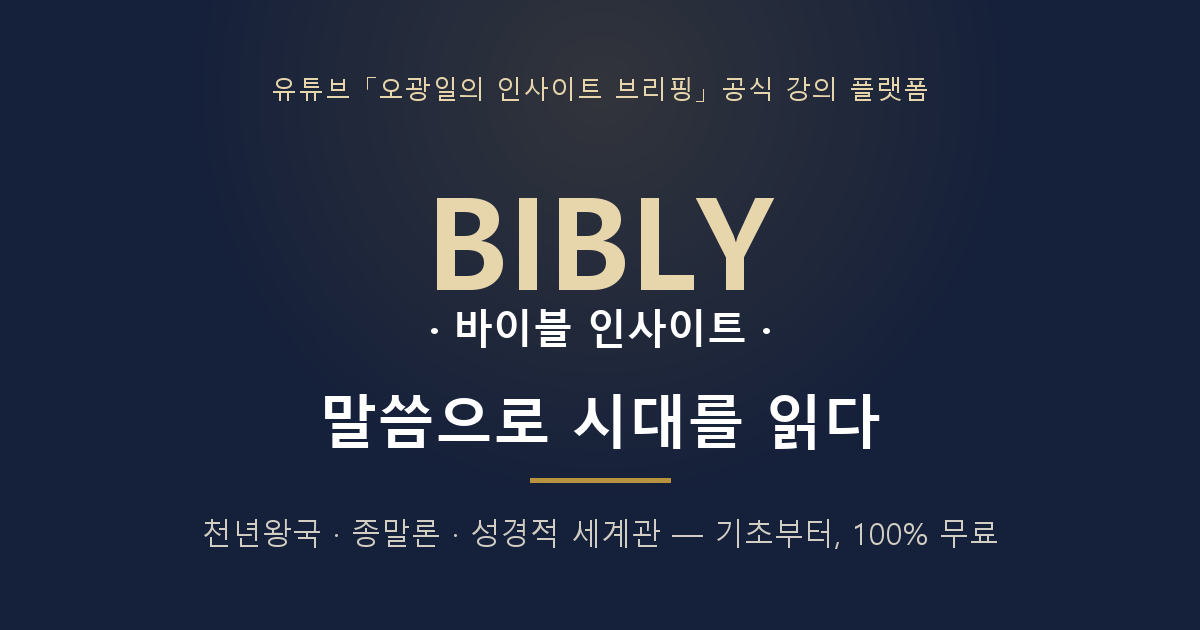
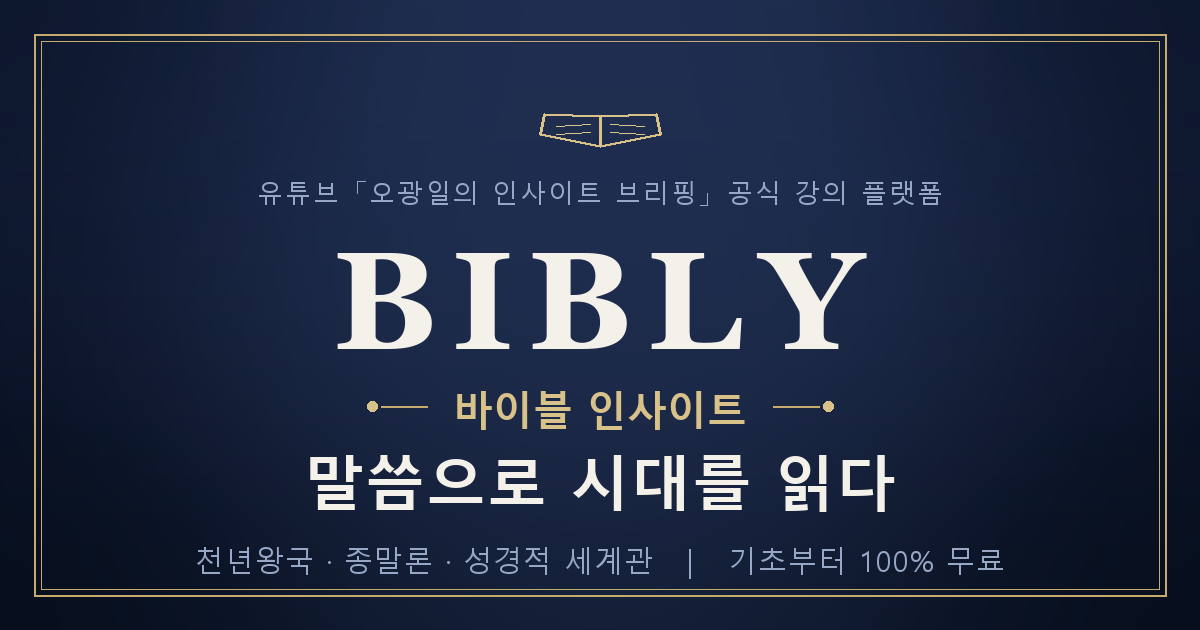
공유 카드(OG 이미지) 디자인 리뉴얼
- 세리프 워드마크·골드 프레임·펼친 성경 엠블럼·중앙 글로우로 고급화
- 상하 여백/타이포 균형 재조정
- og:image·twitter:image에 ?v=2 캐시버스터 추가(신규 이미지 즉시 반영)

diff --git a/index.html b/index.html
@@ -21,14 +21,14 @@
   <meta property="og:title" content="BIBLY 바이블 인사이트 — 말씀으로 시대를 읽다" />
   <meta property="og:description" content="유튜브 「오광일의 인사이트 브리핑」 공식 강의 플랫폼. 천년왕국·종말론·성경적 세계관을 기초부터 단계별로 — 100% 무료." />
   <meta property="og:url" content="https://biblynote.com/" />
-  <meta property="og:image" content="https://biblynote.com/images/og-cover.png" />
+  <meta property="og:image" content="https://biblynote.com/images/og-cover.png?v=2" />
   <meta property="og:image:width" content="1200" />
   <meta property="og:image:height" content="630" />
   <meta property="og:locale" content="ko_KR" />
   <meta name="twitter:card" content="summary_large_image" />
   <meta name="twitter:title" content="BIBLY 바이블 인사이트 — 말씀으로 시대를 읽다" />
   <meta name="twitter:description" content="유튜브 「오광일의 인사이트 브리핑」 공식 강의 플랫폼. 천년왕국·종말론·성경적 세계관을 기초부터 단계별로 — 100% 무료." />
-  <meta name="twitter:image" content="https://biblynote.com/images/og-cover.png" />
+  <meta name="twitter:image" content="https://biblynote.com/images/og-cover.png?v=2" />
 
   <!-- 검색 구조화 데이터 (JSON-LD) -->
   <script type="application/ld+json">

diff --git a/about.html b/about.html
@@ -13,10 +13,10 @@
   <meta property="og:title" content="소개 · 우리의 사명 — BIBLY 바이블 인사이트" />
   <meta property="og:description" content="평신도가 성경을 스스로 읽고 시대를 분별하도록 돕는 온라인 신학 운동. 사명·비전·핵심가치를 소개합니다." />
   <meta property="og:url" content="https://biblynote.com/about" />
-  <meta property="og:image" content="https://biblynote.com/images/og-cover.png" />
+  <meta property="og:image" content="https://biblynote.com/images/og-cover.png?v=2" />
   <meta property="og:locale" content="ko_KR" />
   <meta name="twitter:card" content="summary_large_image" />
-  <meta name="twitter:image" content="https://biblynote.com/images/og-cover.png" />
+  <meta name="twitter:image" content="https://biblynote.com/images/og-cover.png?v=2" />
   <link rel="manifest" href="/manifest.json" />
   <meta name="theme-color" content="#15203a" />
   <link rel="apple-touch-icon" href="/images/icon-192.png" />

diff --git a/curriculum.html b/curriculum.html
@@ -13,10 +13,10 @@
   <meta property="og:title" content="커리큘럼 — BIBLY 바이블 인사이트" />
   <meta property="og:description" content="천년왕국·종말론부터 교리·이단분별까지 — 27개 주제 트랙, 255편 무료 강의를 단계별로." />
   <meta property="og:url" content="https://biblynote.com/curriculum" />
-  <meta property="og:image" content="https://biblynote.com/images/og-cover.png" />
+  <meta property="og:image" content="https://biblynote.com/images/og-cover.png?v=2" />
   <meta property="og:locale" content="ko_KR" />
   <meta name="twitter:card" content="summary_large_image" />
-  <meta name="twitter:image" content="https://biblynote.com/images/og-cover.png" />
+  <meta name="twitter:image" content="https://biblynote.com/images/og-cover.png?v=2" />
   <link rel="manifest" href="/manifest.json" />
   <meta name="theme-color" content="#15203a" />
   <link rel="apple-touch-icon" href="/images/icon-192.png" />

diff --git a/watch.html b/watch.html
@@ -11,10 +11,10 @@
   <meta property="og:site_name" content="BIBLY 바이블 인사이트" />
   <meta property="og:title" content="BIBLY 강의실 — 말씀으로 시대를 읽다" />
   <meta property="og:description" content="천년왕국·종말론·성경적 세계관 무료 강의. 영상+요약노트+확인 퀴즈+질의응답까지." />
-  <meta property="og:image" content="https://biblynote.com/images/og-cover.png" />
+  <meta property="og:image" content="https://biblynote.com/images/og-cover.png?v=2" />
   <meta property="og:locale" content="ko_KR" />
   <meta name="twitter:card" content="summary_large_image" />
-  <meta name="twitter:image" content="https://biblynote.com/images/og-cover.png" />
+  <meta name="twitter:image" content="https://biblynote.com/images/og-cover.png?v=2" />
   <link rel="manifest" href="/manifest.json" />
   <meta name="theme-color" content="#15203a" />
   <link rel="apple-touch-icon" href="/images/icon-192.png" />

diff --git a/make_og_v2.py b/make_og_v2.py
@@ -1,0 +1,141 @@
+# -*- coding: utf-8 -*-
+"""Refined OG share card for BIBLY (1200x630)."""
+from PIL import Image, ImageDraw, ImageFont, ImageFilter
+import math, os
+
+W, H = 1200, 630
+CX = W // 2
+
+# ---- palette ----
+TOP    = (16, 27, 52)     # deep navy top
+BOT    = (8, 16, 32)      # darker bottom
+GLOW   = (44, 62, 104)    # warm center glow
+GOLD   = (216, 194, 138)  # refined muted gold
+GOLD_BR= (233, 214, 166)  # brighter gold accent
+IVORY  = (244, 241, 234)  # near-white warm
+MUTED  = (150, 168, 198)  # cool blue-grey
+FRAME  = (198, 170, 110)  # frame gold
+
+# ---- 1) vertical gradient base ----
+base = Image.new("RGB", (W, H), TOP)
+px = base.load()
+for y in range(H):
+    t = y / (H - 1)
+    # ease towards bottom
+    te = t * t * (3 - 2 * t)
+    r = int(TOP[0] + (BOT[0] - TOP[0]) * te)
+    g = int(TOP[1] + (BOT[1] - TOP[1]) * te)
+    b = int(TOP[2] + (BOT[2] - TOP[2]) * te)
+    for x in range(W):
+        px[x, y] = (r, g, b)
+
+# ---- 2) soft radial glow (center, slightly upper) ----
+glow_mask = Image.new("L", (W, H), 0)
+gd = ImageDraw.Draw(glow_mask)
+gd.ellipse([CX - 430, 150 - 250, CX + 430, 150 + 470], fill=255)
+glow_mask = glow_mask.filter(ImageFilter.GaussianBlur(130))
+glow_layer = Image.new("RGB", (W, H), GLOW)
+base = Image.composite(glow_layer, base, glow_mask.point(lambda v: int(v * 0.55)))
+
+# ---- 3) vignette (darken edges) ----
+vig = Image.new("L", (W, H), 0)
+vd = ImageDraw.Draw(vig)
+vd.ellipse([-150, -120, W + 150, H + 120], fill=255)
+vig = vig.filter(ImageFilter.GaussianBlur(160))
+dark = Image.new("RGB", (W, H), (4, 9, 20))
+base = Image.composite(base, dark, vig)
+
+img = base.convert("RGB")
+d = ImageDraw.Draw(img)
+
+# ---- fonts ----
+def F(path, size):
+    return ImageFont.truetype(path, size)
+SER = "C:/Windows/Fonts/georgiab.ttf"   # serif for wordmark
+KB  = "C:/Windows/Fonts/malgunbd.ttf"   # korean bold
+KR  = "C:/Windows/Fonts/malgun.ttf"     # korean regular
+
+f_bibly = F(SER, 138)
+f_sub   = F(KB, 40)
+f_eye   = F(KR, 26)
+f_tag   = F(KB, 60)
+f_foot  = F(KR, 29)
+
+def text_center(draw, cy, s, font, fill, ls=0):
+    """draw horizontally-centered text with optional letter spacing; return (top,bottom)."""
+    if ls == 0:
+        bb = draw.textbbox((0, 0), s, font=font)
+        w = bb[2] - bb[0]
+        draw.text((CX - w / 2 - bb[0], cy), s, font=font, fill=fill)
+        return cy + bb[1], cy + bb[3]
+    # letter spaced
+    widths = []
+    for ch in s:
+        bb = draw.textbbox((0, 0), ch, font=font)
+        widths.append(bb[2] - bb[0])
+    total = sum(widths) + ls * (len(s) - 1)
+    x = CX - total / 2
+    top = 99999; bot = -99999
+    for ch, w in zip(s, widths):
+        bb = draw.textbbox((0, 0), ch, font=font)
+        draw.text((x - bb[0], cy), ch, font=font, fill=fill)
+        top = min(top, cy + bb[1]); bot = max(bot, cy + bb[3])
+        x += w + ls
+    return top, bot
+
+# ---- 4) elegant inset frame ----
+m = 34
+d.rectangle([m, m, W - m, H - m], outline=FRAME, width=2)
+# inner hairline
+d.rectangle([m + 7, m + 7, W - m - 7, H - m - 7], outline=(FRAME[0], FRAME[1], FRAME[2]), width=1)
+# corner accents (small gold ticks)
+for (ax, ay) in [(m, m), (W - m, m), (m, H - m), (W - m, H - m)]:
+    pass
+
+# ---- 5) open-book emblem (monoline gold) centered near top ----
+ebx, eby = CX, 132          # emblem center
+hw = 60                      # half width
+# spine
+d.line([(ebx, eby - 16), (ebx, eby + 14)], fill=GOLD, width=3)
+# left page outline
+d.line([(ebx, eby + 14), (ebx - hw, eby + 2)], fill=GOLD, width=3)     # bottom edge
+d.line([(ebx - hw, eby + 2), (ebx - hw + 4, eby - 18)], fill=GOLD, width=3)  # outer edge
+d.line([(ebx - hw + 4, eby - 18), (ebx, eby - 16)], fill=GOLD, width=3)      # top edge
+# right page outline (mirror)
+d.line([(ebx, eby + 14), (ebx + hw, eby + 2)], fill=GOLD, width=3)
+d.line([(ebx + hw, eby + 2), (ebx + hw - 4, eby - 18)], fill=GOLD, width=3)
+d.line([(ebx + hw - 4, eby - 18), (ebx, eby - 16)], fill=GOLD, width=3)
+# subtle page lines
+for i, dy in enumerate((-6, 2)):
+    d.line([(ebx - hw + 16, eby + dy), (ebx - 10, eby + dy - 2)], fill=(GOLD[0], GOLD[1], GOLD[2]), width=1)
+    d.line([(ebx + 10, eby + dy - 2), (ebx + hw - 16, eby + dy)], fill=(GOLD[0], GOLD[1], GOLD[2]), width=1)
+
+# ---- 6) eyebrow ----
+text_center(d, 174, "유튜브 「오광일의 인사이트 브리핑」 공식 강의 플랫폼", f_eye, MUTED, ls=2)
+
+# ---- 7) BIBLY wordmark (serif, wide tracking) ----
+text_center(d, 222, "BIBLY", f_bibly, IVORY, ls=14)
+
+# ---- 8) subtitle with side dots ----
+sub = "바이블 인사이트"
+bb = d.textbbox((0, 0), sub, font=f_sub)
+sw = bb[2] - bb[0]
+sy = 382
+text_center(d, sy, sub, f_sub, GOLD)
+# side dots / rules
+gap = sw / 2 + 26
+d.line([(CX - gap - 46, sy + 24), (CX - gap, sy + 24)], fill=(FRAME[0], FRAME[1], FRAME[2]), width=2)
+d.line([(CX + gap, sy + 24), (CX + gap + 46, sy + 24)], fill=(FRAME[0], FRAME[1], FRAME[2]), width=2)
+d.ellipse([CX - gap - 60, sy + 19, CX - gap - 50, sy + 29], fill=GOLD)
+d.ellipse([CX + gap + 50, sy + 19, CX + gap + 60, sy + 29], fill=GOLD)
+
+# ---- 9) main tagline ----
+text_center(d, 440, "말씀으로 시대를 읽다", f_tag, IVORY, ls=1)
+
+# ---- 10) footer keywords ----
+text_center(d, 540, "천년왕국 · 종말론 · 성경적 세계관   |   기초부터 100% 무료", f_foot, MUTED, ls=1)
+
+out = "images/og-cover.png"
+img.save(out, "PNG")
+with open("_og_status.txt", "w", encoding="utf-8") as fp:
+    fp.write("saved %s  size=%dx%d  bytes=%d\n" % (out, img.size[0], img.size[1], os.path.getsize(out)))
